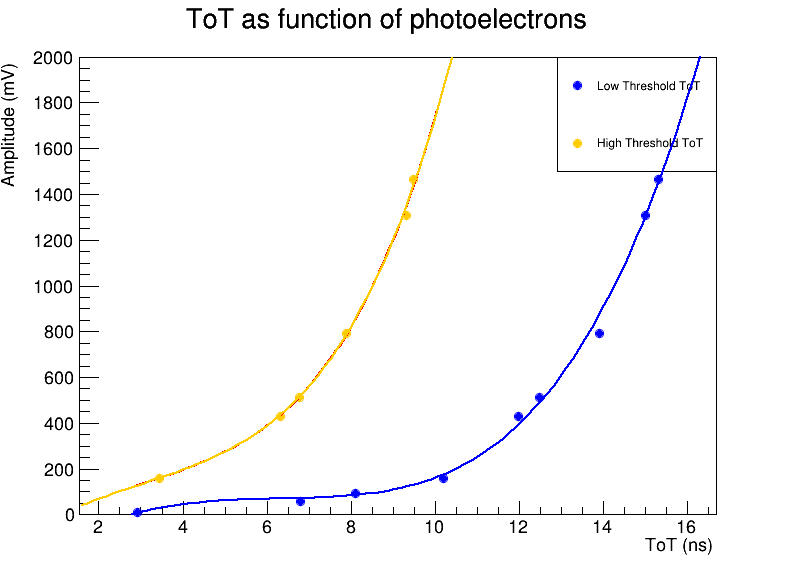
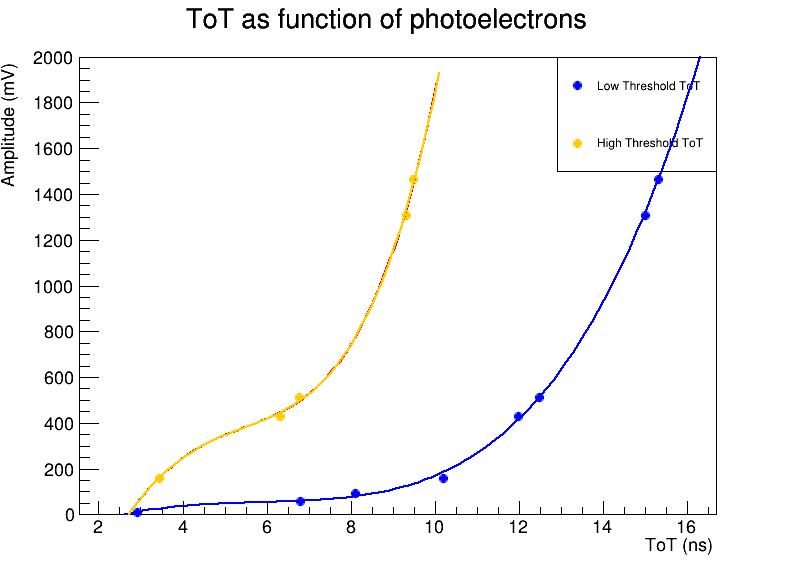
new commit

diff --git a/time_distribution_graph.C b/time_distribution_graph.C
@@ -217,7 +217,6 @@ void processFile(const std::string& filename, std::vector<double>& N, std::vecto
 }
 int main() {
     std::vector<std::string> filenames = {
-        "T_smear_0_800.txt",
         "T_smear_26539_2000.txt",
         "T_smear_41806_4000.txt", "T_smear_44519_2000.txt",
         "T_smear_5275_2800.txt",
@@ -237,6 +236,7 @@ int main() {
     std::vector<double> N_filtered, N_filtered_h,tot_l_filtered, tot_h_filtered;
     for (int i = 0; i < N.size(); ++i) {
       std::cout<<N[i]<<std::endl;
+      std::cout<<tot_l[i]<<std::endl;
         if (tot_l[i] >= 0 && N[i]<=2000) {
             N_filtered.push_back(N[i]);
             tot_l_filtered.push_back(tot_l[i]);
